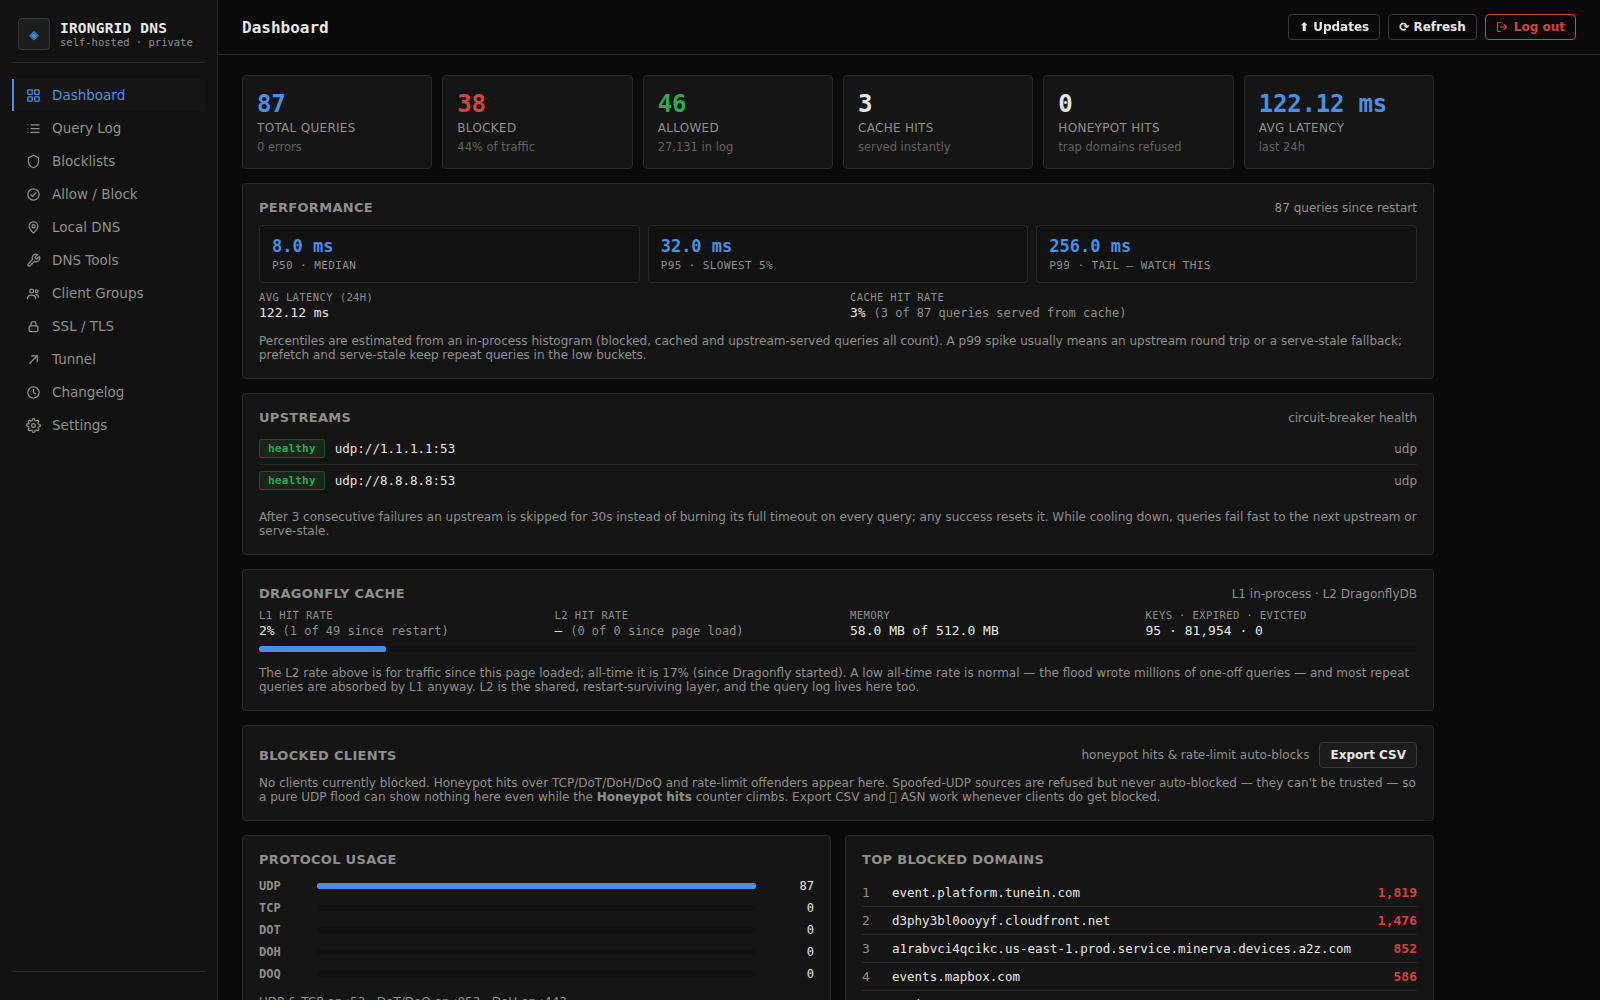
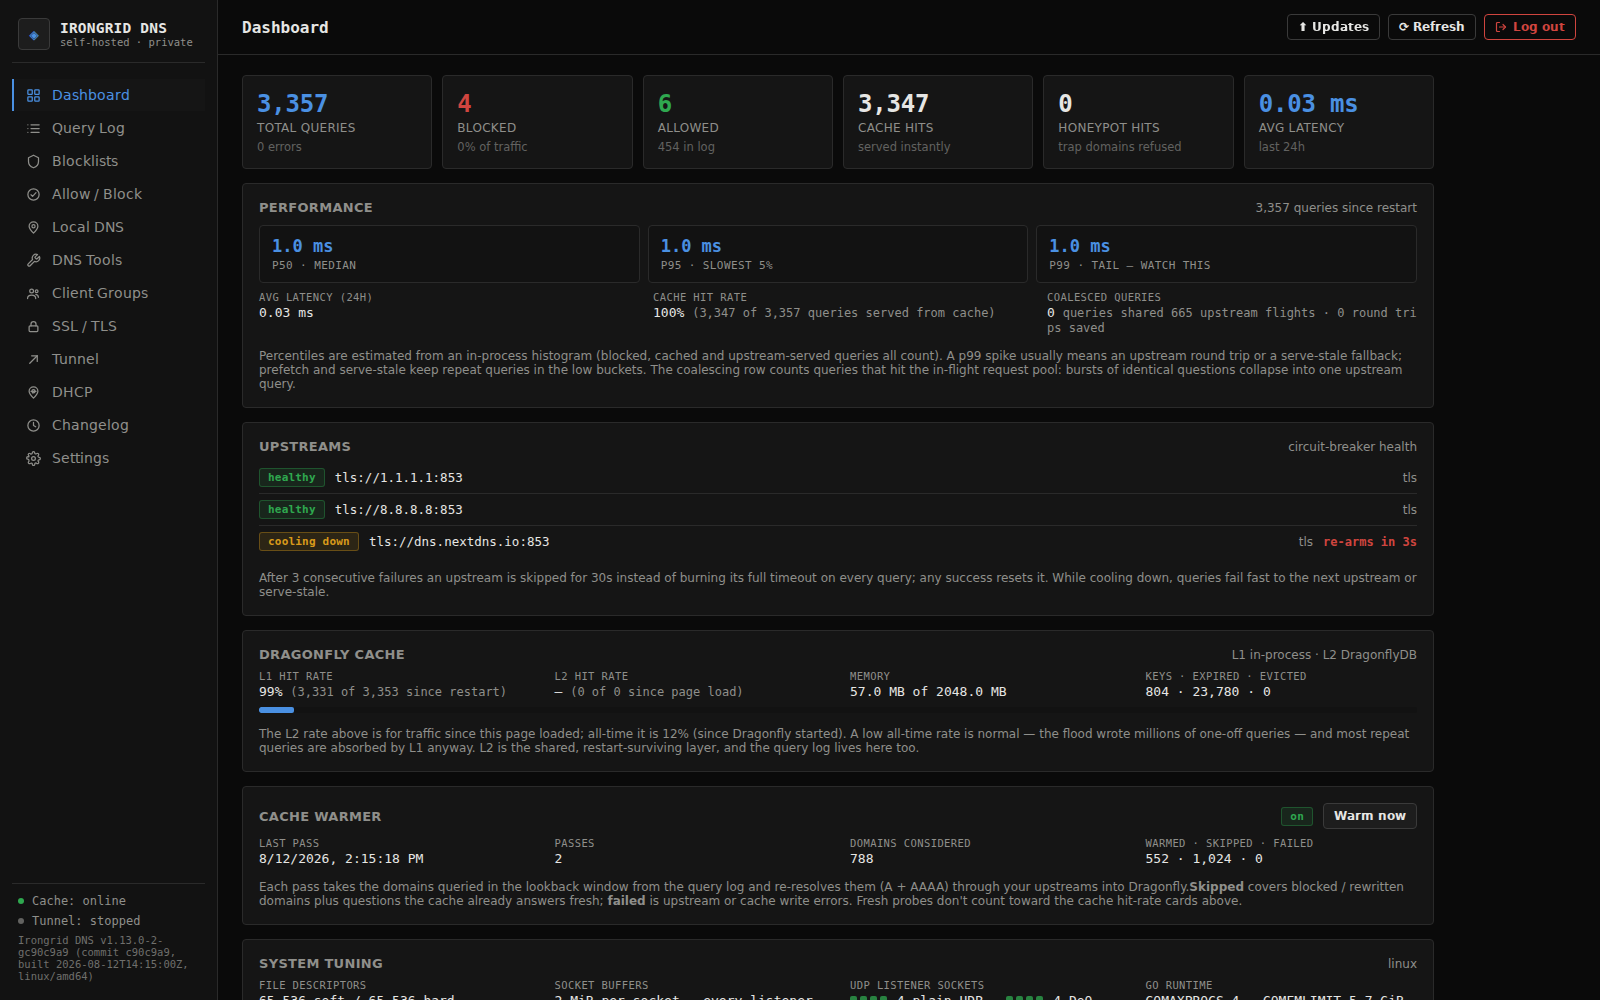
docs: refresh screenshots against the current UI + add DHCP and Settings pages
Re-captured all screenshots from the live dashboard (1600x1000) after
deploying the current build, and added two new ones: the DHCP page
(leases/static reservations) and the Settings page (live config editing +
backup & restore).

diff --git a/README.md b/README.md
@@ -55,6 +55,15 @@ commercial ad-blocking DNS with sub-millisecond local responses.
 
 ![Irongrid DNS blocklists](assets/screenshots/04-blocklists.png)
 
+**DHCP** — the built-in DHCP server's leases and static reservations, with client
+hostnames that resolve in the local DNS.
+
+![Irongrid DNS DHCP server](assets/screenshots/05-dhcp.png)
+
+**Settings** — live config editing, including one-click **backup & restore**.
+
+![Irongrid DNS settings and backup/restore](assets/screenshots/06-settings.png)
+
 ## Table of contents
 
 - [Screenshots](#screenshots)
